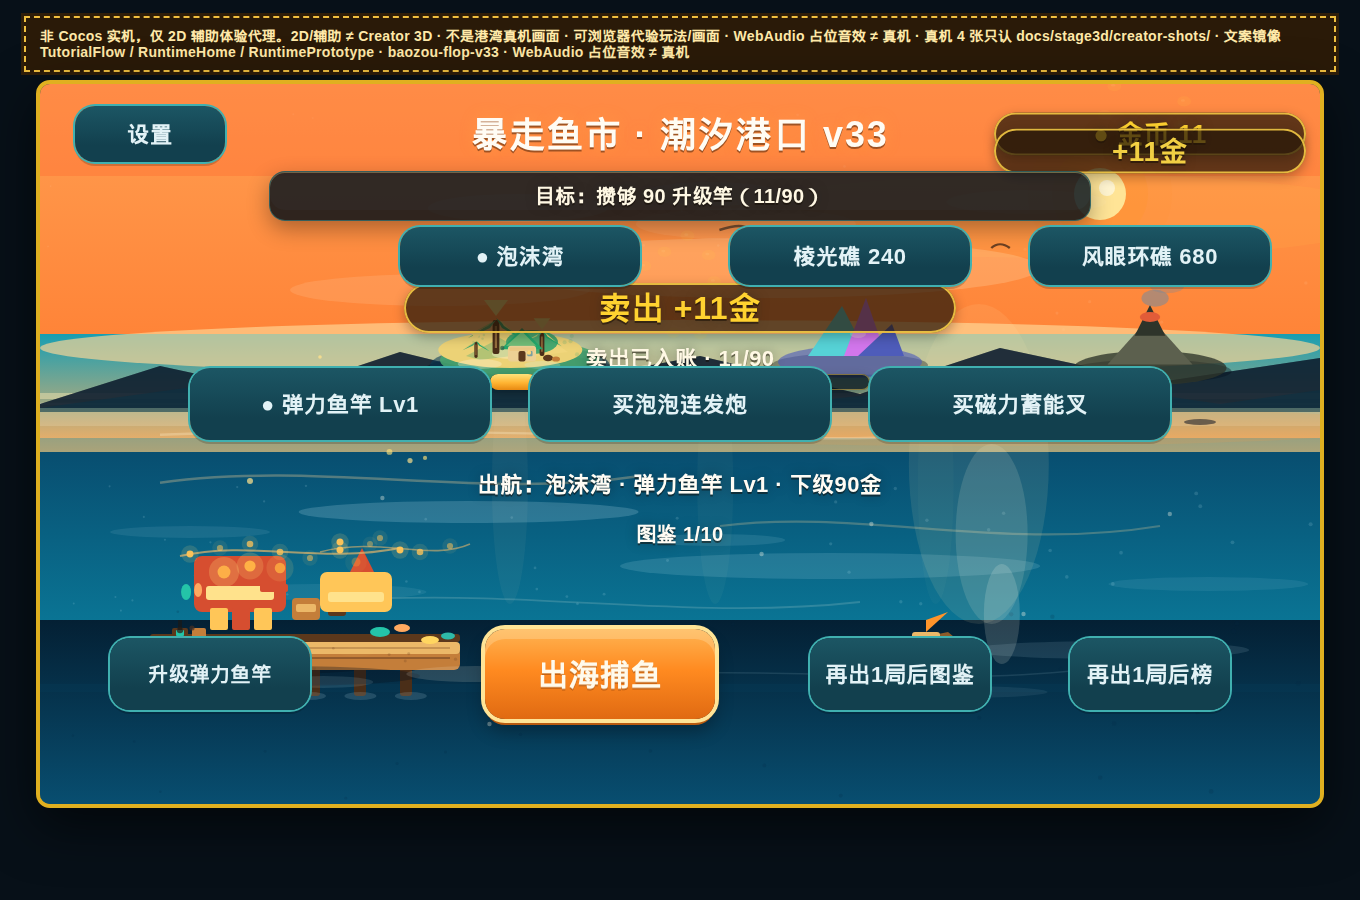
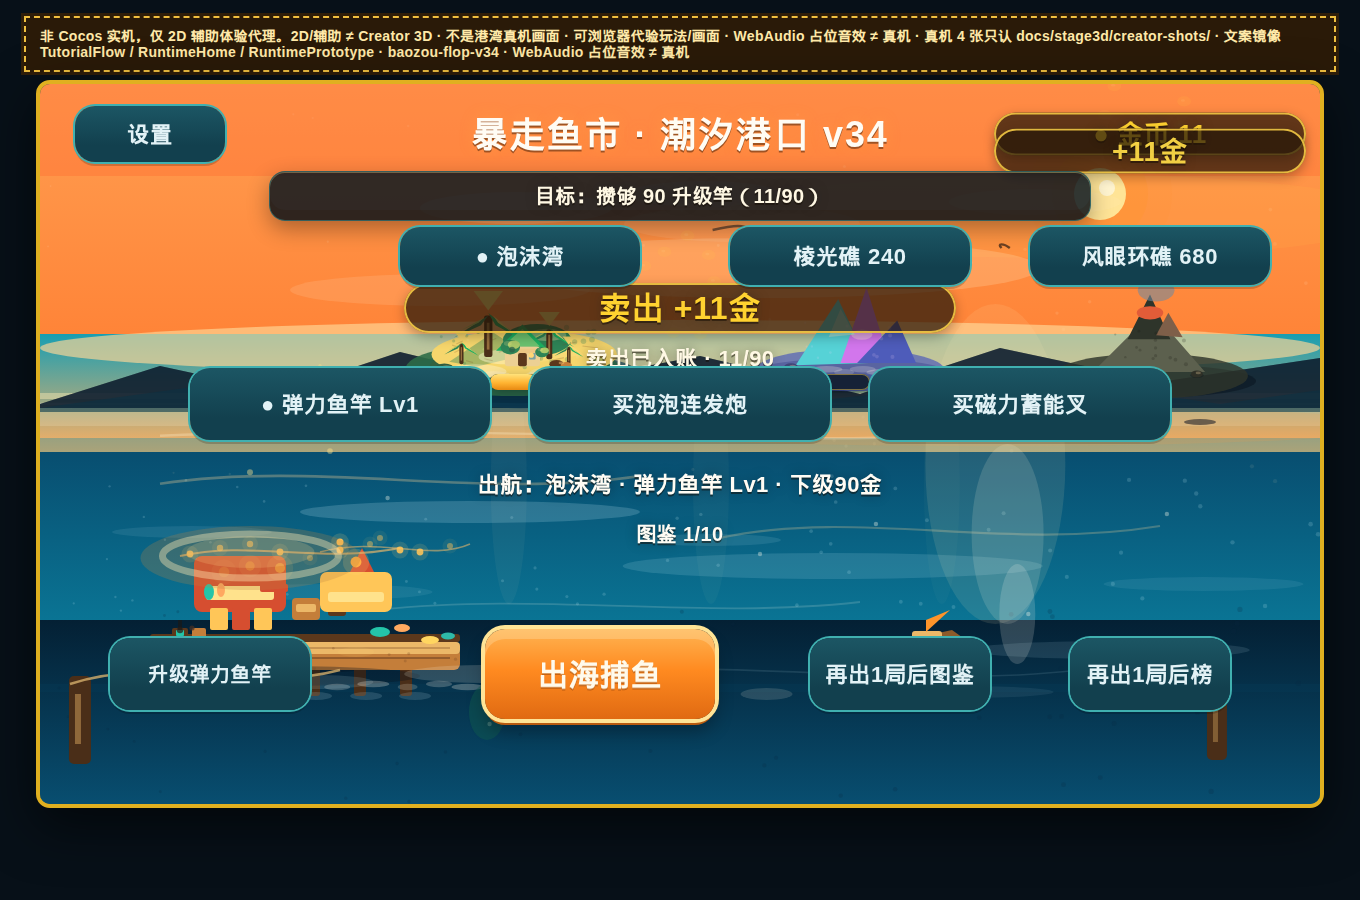
更新代理截图，并加大岛体与砸拍静帧
自由局早/准时蓄力对比入仓；砸拍帧强制落地扬尘。岛体与湾鳍略放大，方便静帧读层次。教学首售仍 11/90。仍不合 main。

diff --git a/tools/first-run-preview/preview.js b/tools/first-run-preview/preview.js
@@ -680,7 +680,7 @@ function paintFish(ctx, x, y) {
   const wet = x > -150 && y < 80 && !carrying;
   ctx.save();
   ctx.translate(sx(x), sy(y));
-  ctx.scale(squash.sx, -squash.sy);
+  ctx.scale(squash.sx * 1.32, -squash.sy * 1.32);
   ctx.rotate(fishAngle);
   if (wet) {
     ctx.fillStyle = "rgba(70, 210, 220, 0.16)";
@@ -1003,16 +1003,16 @@ function paintJuice(ctx) {
     ctx.globalAlpha = Math.min(1, slamMark);
     ctx.fillStyle = "rgba(186,132,64,0.55)";
     ctx.beginPath();
-    ctx.ellipse(sx(x), sy(deckY + 4), 78, 22, 0, 0, Math.PI * 2);
+    ctx.ellipse(sx(x), sy(deckY + 4), 110, 32, 0, 0, Math.PI * 2);
     ctx.fill();
-    ctx.fillStyle = "rgba(255,214,140,0.35)";
+    ctx.fillStyle = "rgba(255,214,140,0.42)";
     ctx.beginPath();
-    ctx.ellipse(sx(x), sy(deckY + 8), 46, 12, 0, 0, Math.PI * 2);
+    ctx.ellipse(sx(x), sy(deckY + 10), 64, 16, 0, 0, Math.PI * 2);
     ctx.fill();
-    ctx.strokeStyle = "rgba(255,236,180,0.7)";
-    ctx.lineWidth = 5;
+    ctx.strokeStyle = "rgba(255,236,180,0.85)";
+    ctx.lineWidth = 7;
     ctx.beginPath();
-    ctx.ellipse(sx(x), sy(deckY + 6), 64, 16, 0, 0, Math.PI * 2);
+    ctx.ellipse(sx(x), sy(deckY + 6), 88, 22, 0, 0, Math.PI * 2);
     ctx.stroke();
     ctx.globalAlpha = 1;
   }
@@ -1504,7 +1504,7 @@ function tick(now) {
     smashElapsed += dt;
     smashLeft = Math.max(0, smashLeft - dt);
   }
-  if (slamMark > 0) slamMark = Math.max(0, slamMark - dt * 0.7);
+  if (slamMark > 0) slamMark = Math.max(0, slamMark - dt * 0.28);
   if (castFlashLeft > 0) {
     castFlashElapsed += dt;
     castFlashLeft = Math.max(0, castFlashLeft - dt);

diff --git a/assets/scripts/domain/ArtRecipe.ts b/assets/scripts/domain/ArtRecipe.ts
@@ -1872,9 +1872,9 @@ export function islandSetOps(
       ...sunOps(420, 250, look),
       ...farRidgeOps(look),
       ...farBoatOps(),
-      ...foamIsleOps(-160, 78, 1, islandLook("island_foam_bay")),
-      ...prismIsleOps(170, 82, 1, islandLook("island_prism_reef")),
-      ...stormIsleOps(470, 76, 0.85, islandLook("island_storm_eye")),
+      ...foamIsleOps(-160, 70, 1.22, islandLook("island_foam_bay")),
+      ...prismIsleOps(170, 74, 1.18, islandLook("island_prism_reef")),
+      ...stormIsleOps(470, 68, 1.02, islandLook("island_storm_eye")),
       ...pierMarketOps(look),
       ...harborAmbienceOps(look),
       ...harborForegroundOps(),
@@ -1899,8 +1899,8 @@ export function islandSetOps(
   }
   ops.push(
     ...sunOps(460, 248, look),
-    ...foamIsleOps(380, 80, 1.1, look),
-    ...foamIsleOps(-420, 74, 0.7, look),
+    ...foamIsleOps(380, 86, 1.42, look),
+    ...foamIsleOps(-420, 78, 1.02, look),
     ...harborForegroundOps(),
   );
   return ops;

diff --git a/assets/scripts/domain/GrayLook.ts b/assets/scripts/domain/GrayLook.ts
@@ -137,9 +137,9 @@ const ISLANDS: Record<string, IslandLook> = {
     mid: [18, 148, 176],
     near: [12, 112, 146],
     deep: [8, 58, 86],
-    land: [236, 210, 118],
-    landDark: [72, 168, 112],
-    accent: [36, 168, 108],
+    land: [246, 214, 108],
+    landDark: [46, 132, 86],
+    accent: [28, 176, 96],
   },
   island_prism_reef: {
     skyTop: [176, 186, 246],
@@ -173,9 +173,9 @@ const ISLANDS: Record<string, IslandLook> = {
     mid: [20, 136, 168],
     near: [14, 104, 138],
     deep: [8, 52, 76],
-    land: [210, 186, 118],
-    landDark: [86, 138, 112],
-    accent: [255, 176, 72],
+    land: [226, 196, 108],
+    landDark: [64, 124, 92],
+    accent: [255, 168, 64],
   },
 };
 
